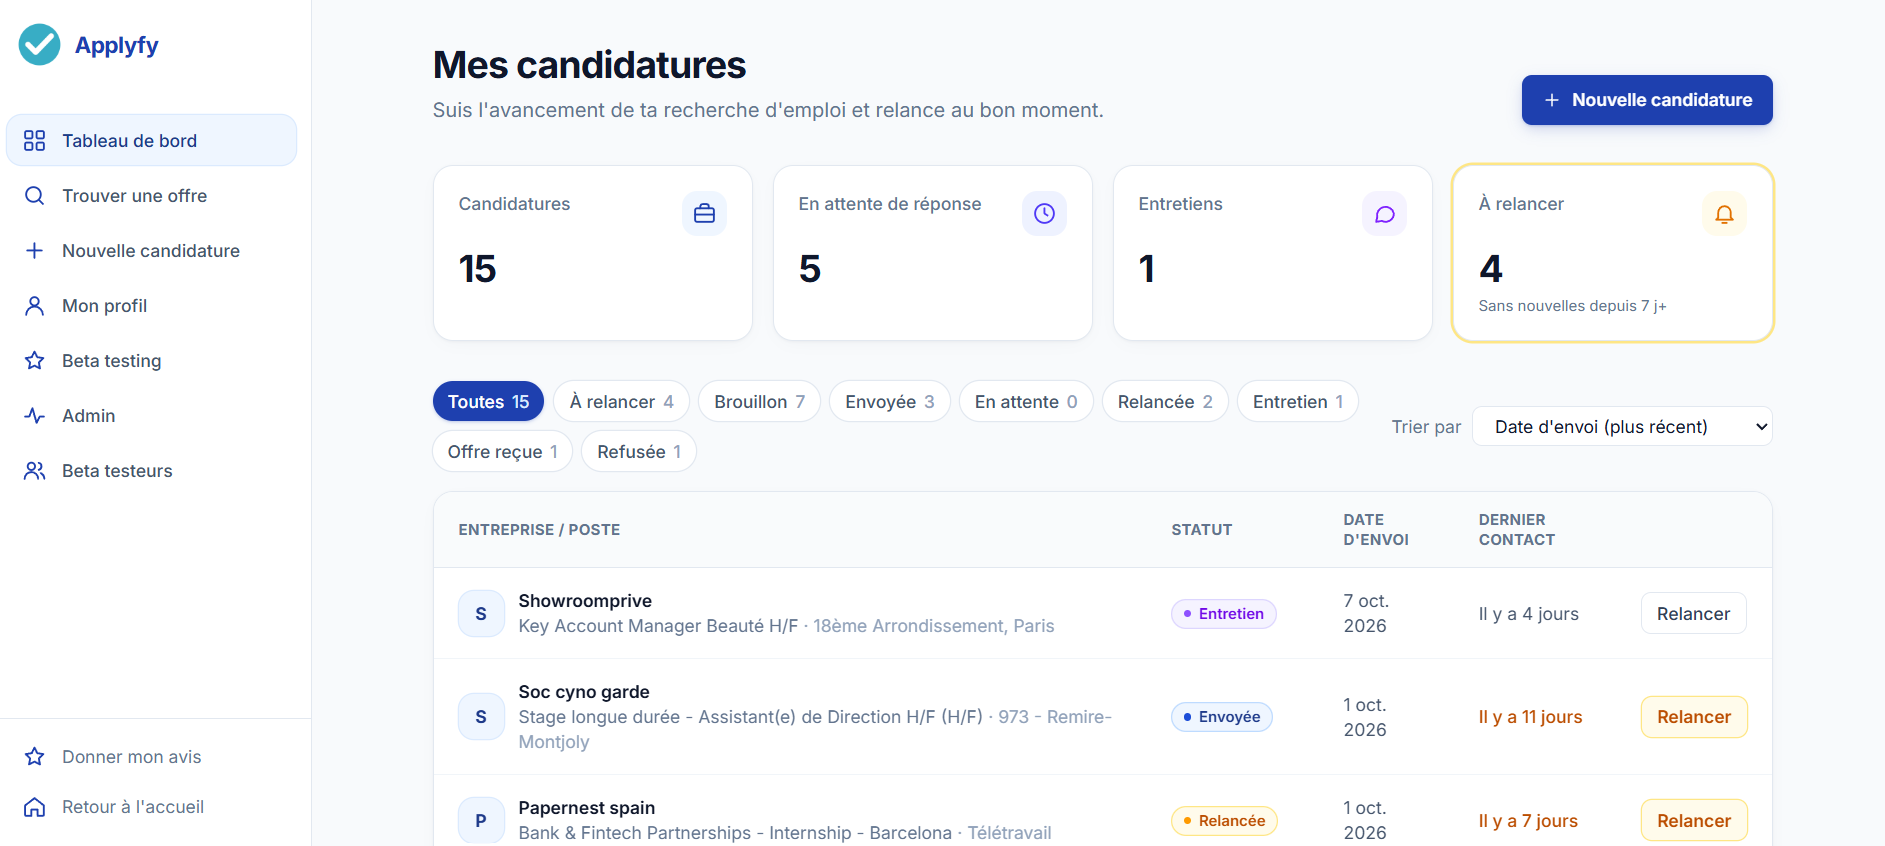
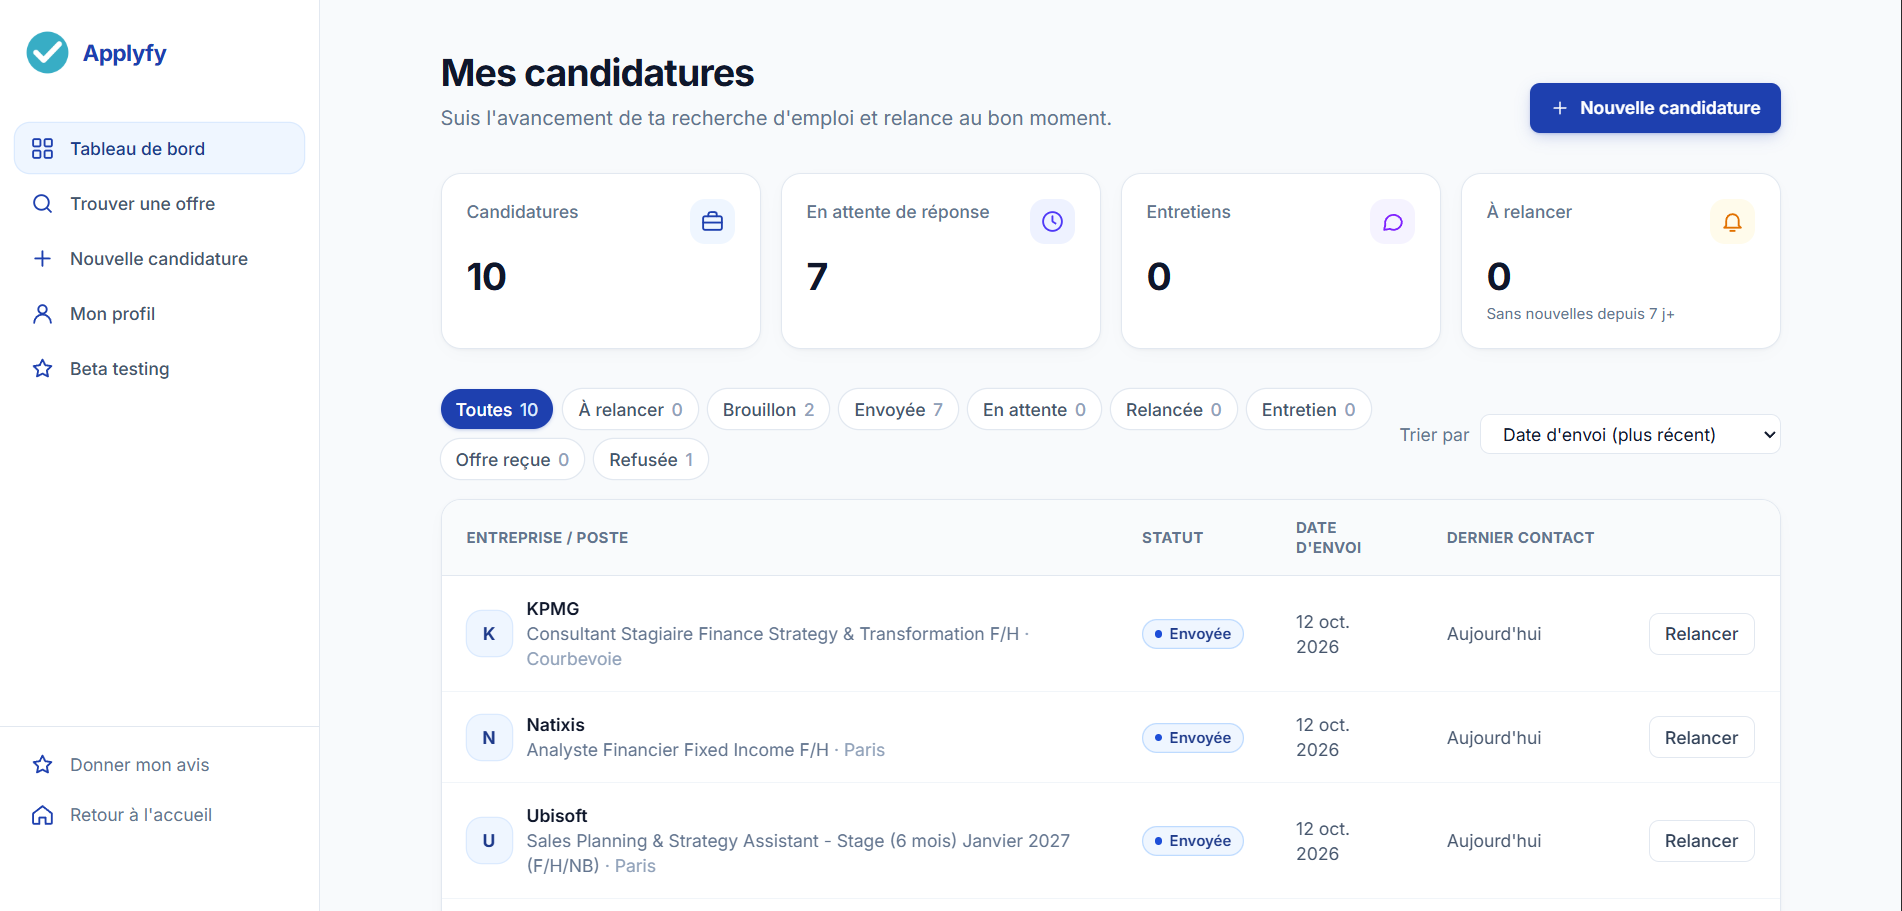
Landing : nouvelle capture du dashboard

diff --git a/src/app/page.tsx b/src/app/page.tsx
@@ -149,8 +149,8 @@ export default function LandingPage() {
               <Image
                 src="/images/dashboard-preview.png"
                 alt="Le dashboard Applyfy : compteurs de candidatures, filtres par statut et liste des candidatures avec leur date d'envoi et un bouton Relancer"
-                width={1885}
-                height={846}
+                width={1902}
+                height={911}
                 sizes="(min-width: 948px) 900px, calc(100vw - 32px)"
                 className="h-auto w-full rounded-xl border border-slate-200 shadow-lg shadow-slate-900/5"
               />
